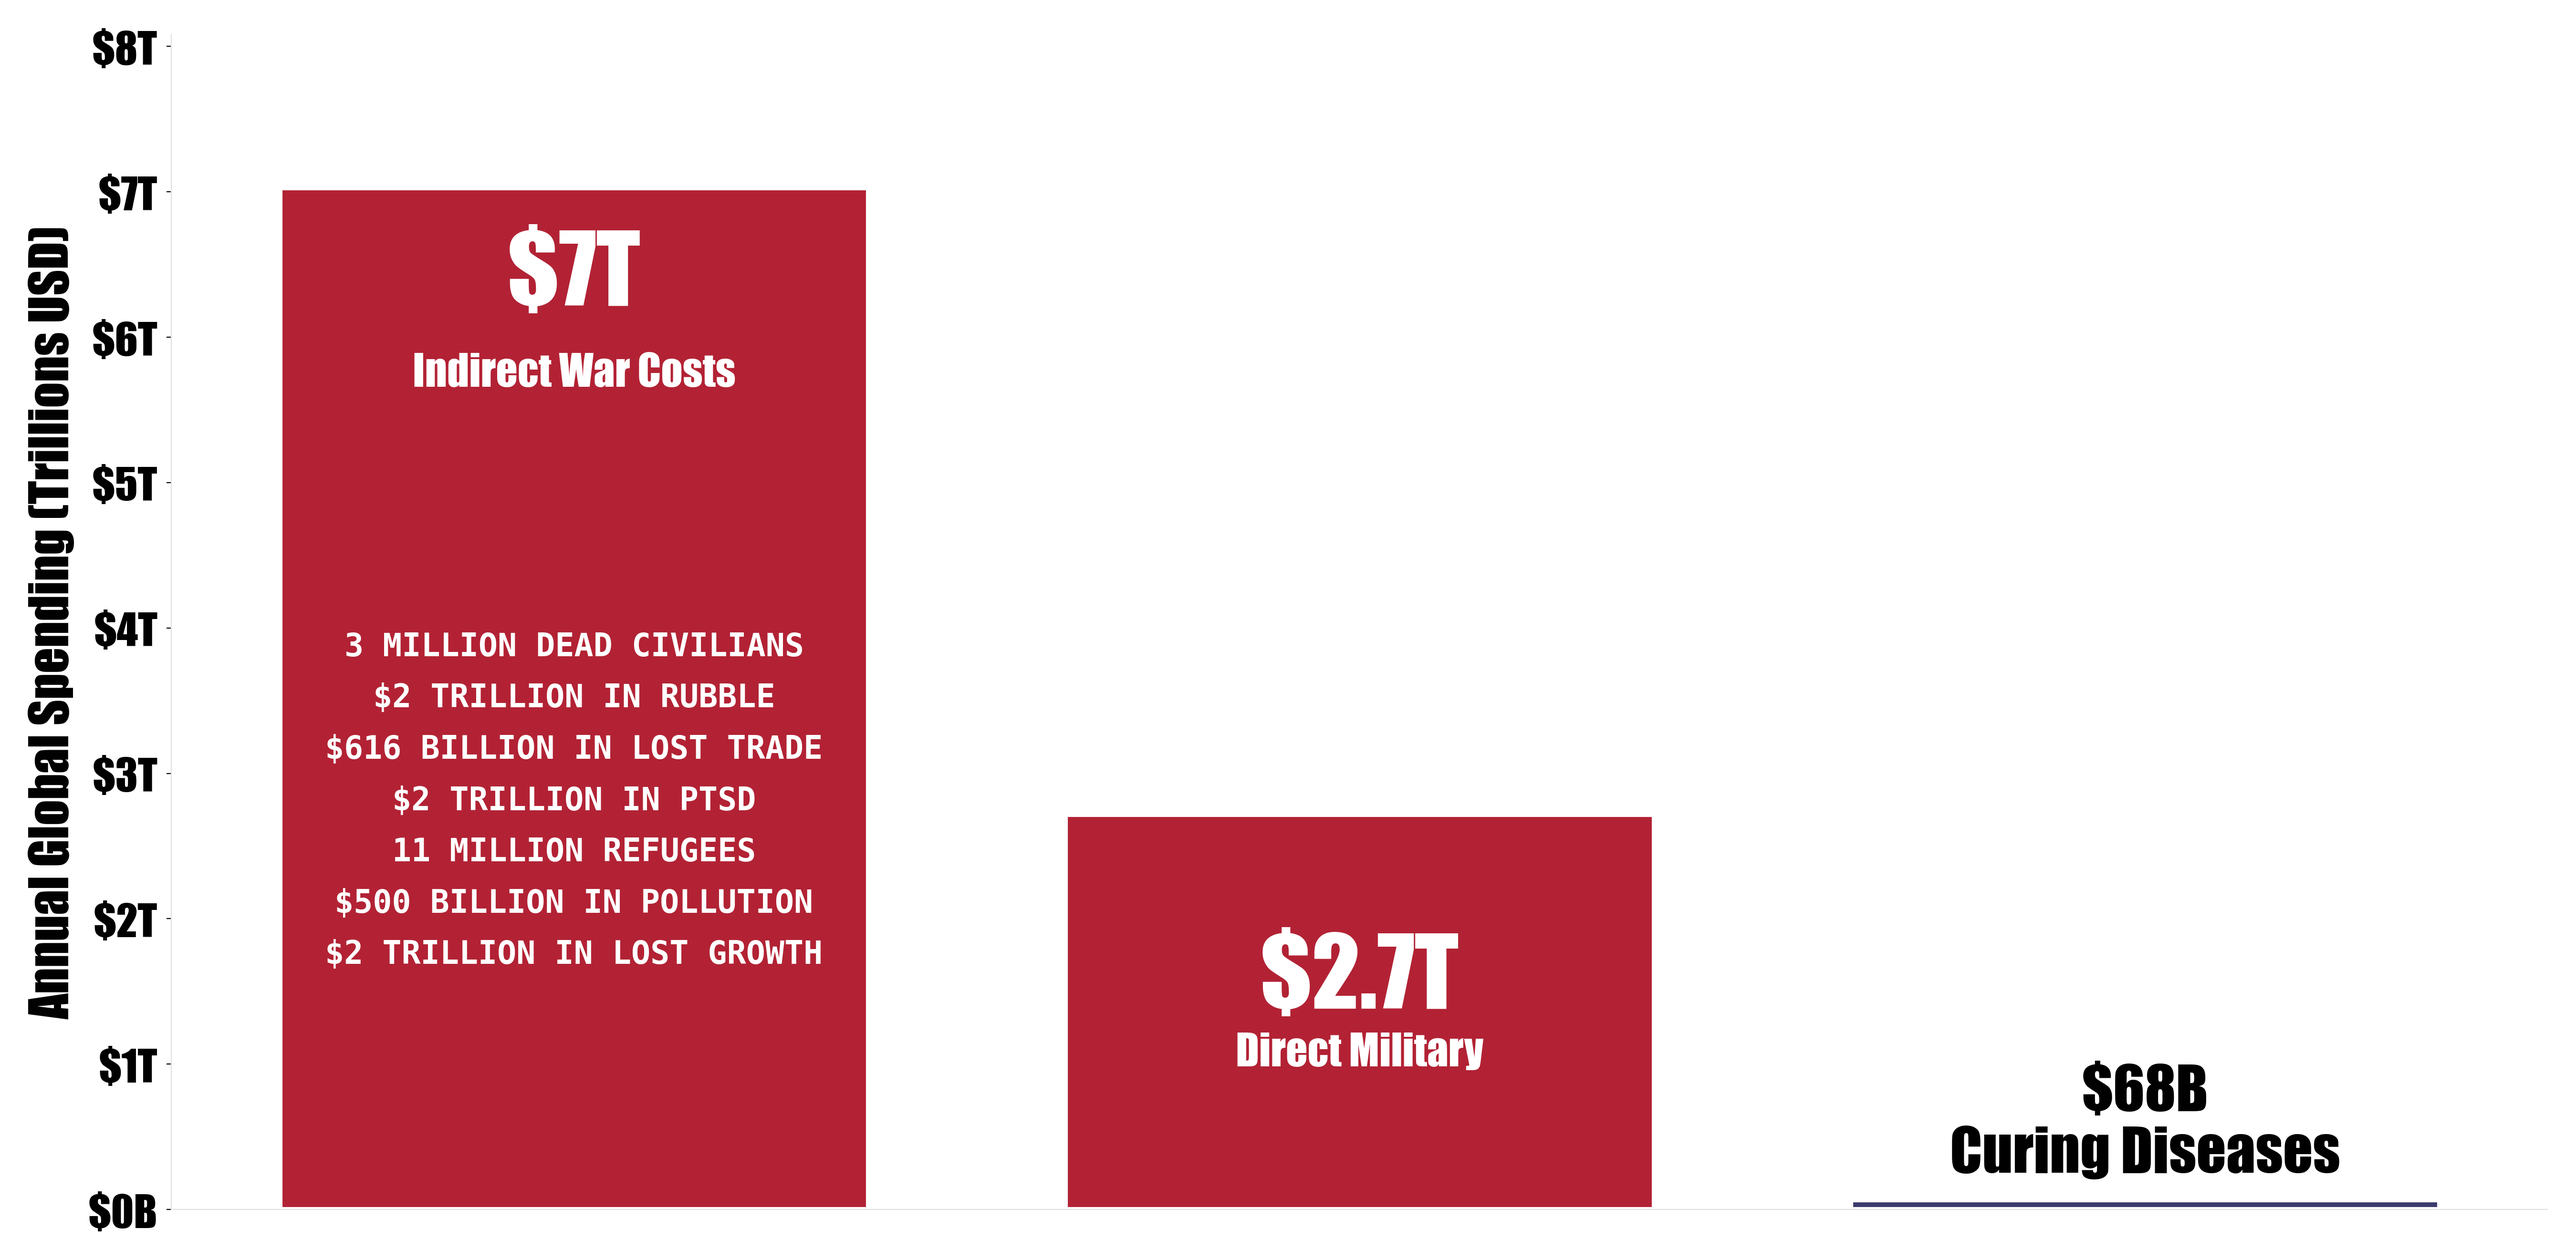
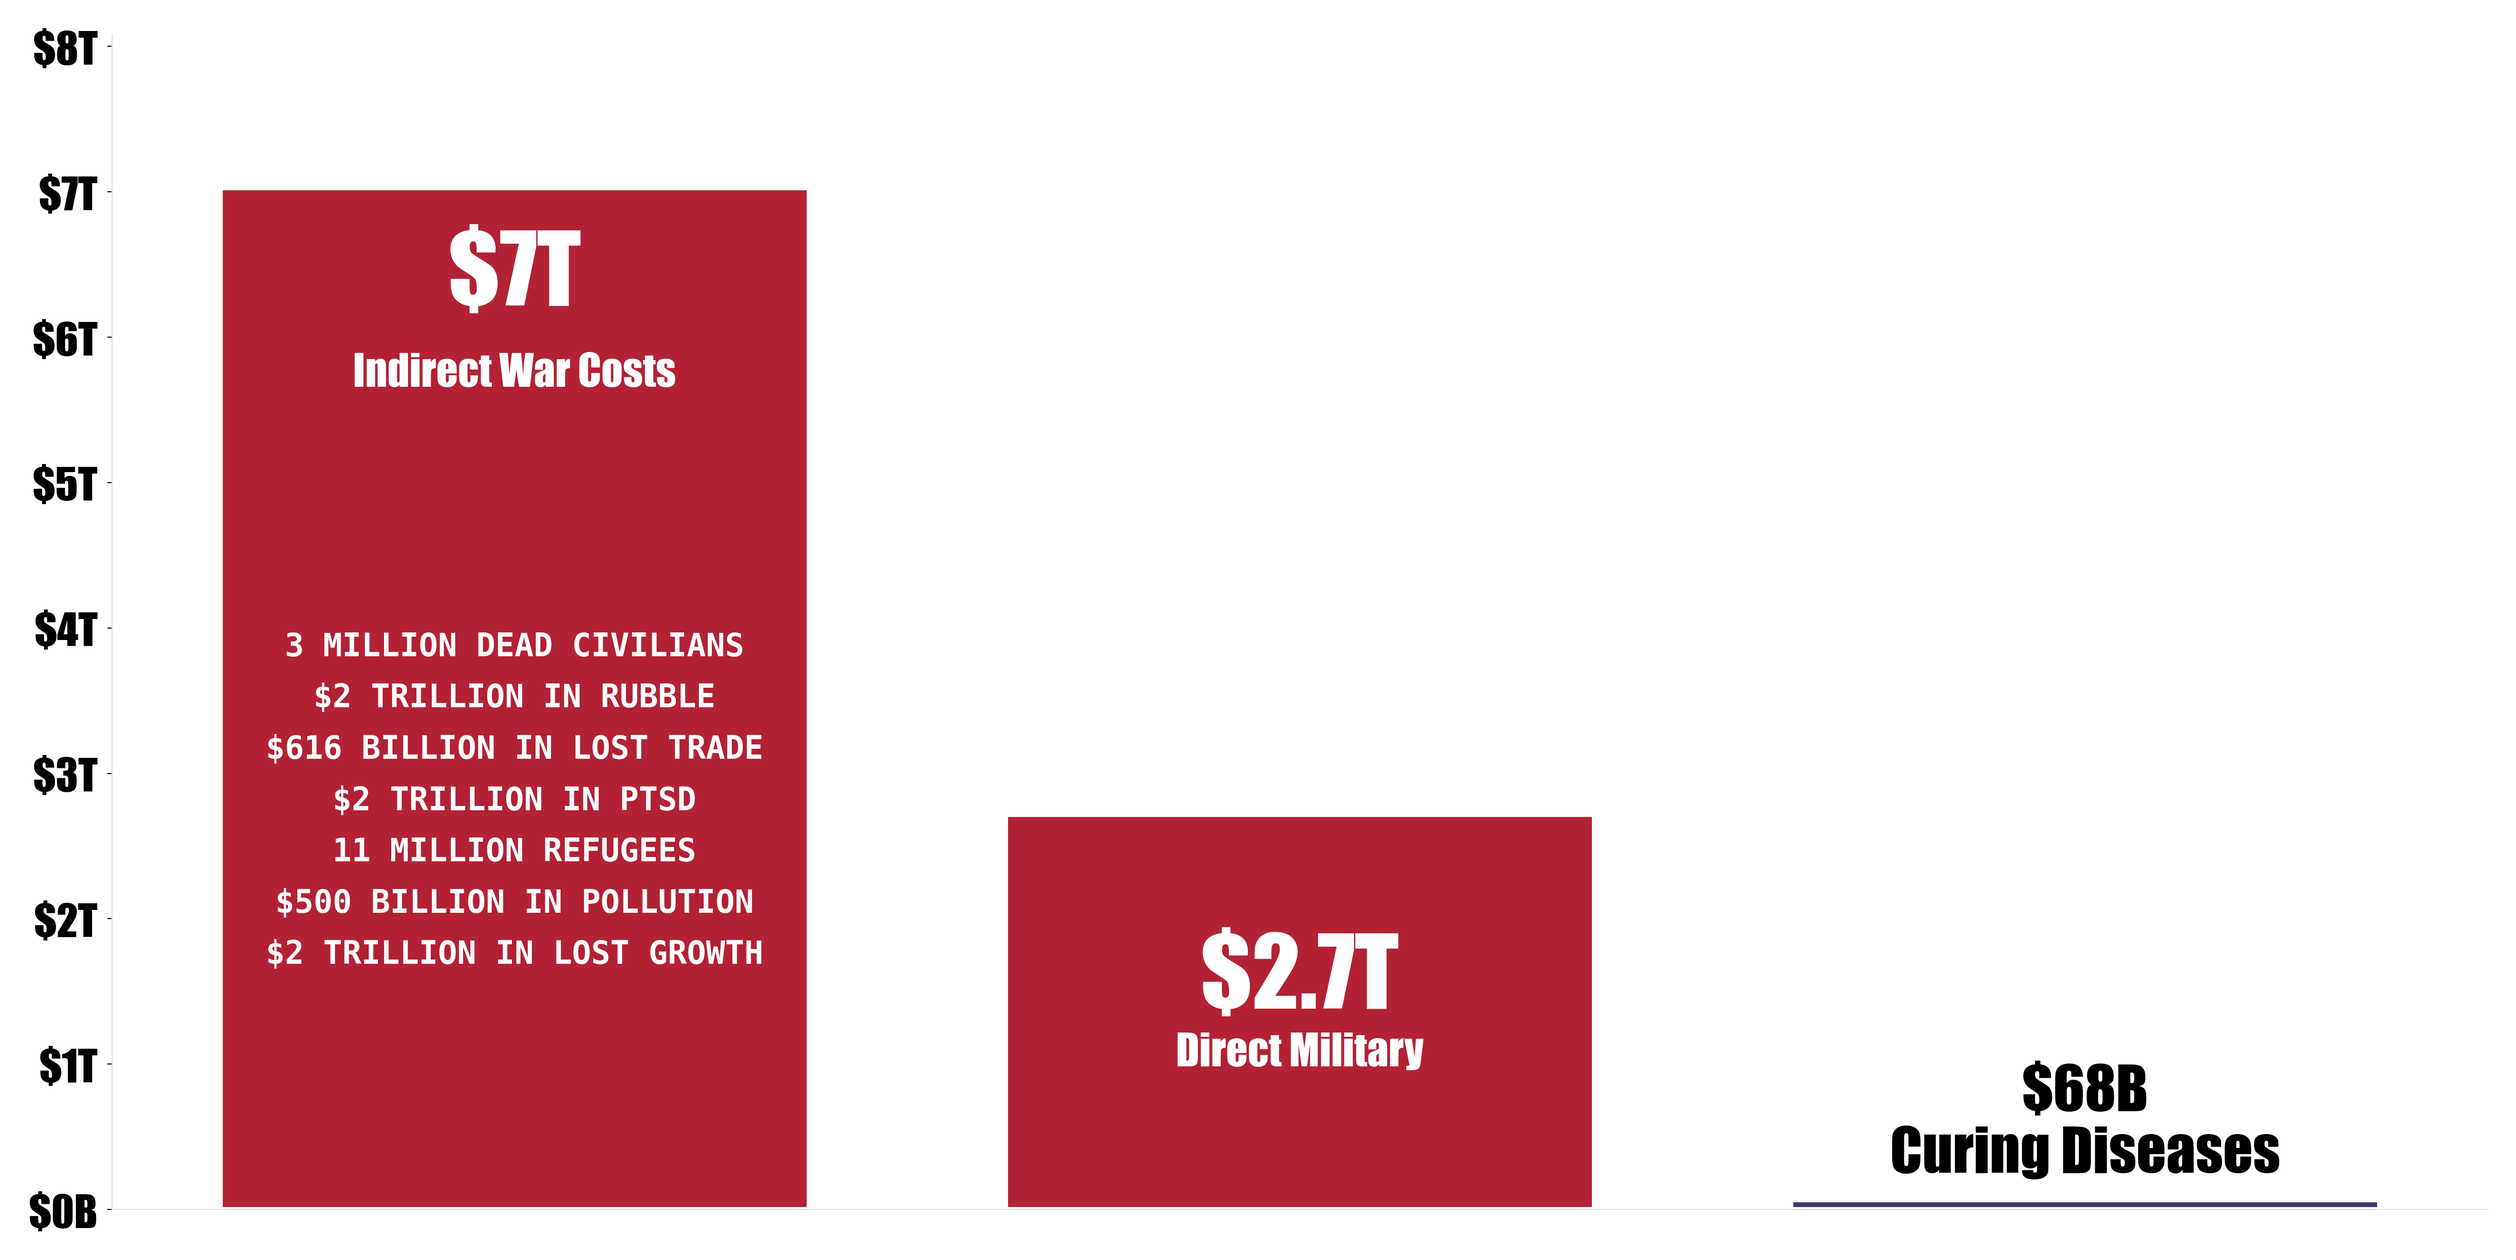
Update DESIGN_GUIDE.md with refined minimalist chart design rules
- Clarified guidelines for Y-axis usage, specifying when to include or remove axis labels and titles based on data labeling.
- Enhanced instructions for data presentation, emphasizing direct labeling on charts and the removal of redundant elements for cleaner visuals.
- Updated formatting recommendations to align with minimalist design principles, ensuring effective communication of data.

diff --git a/DESIGN_GUIDE.md b/DESIGN_GUIDE.md
@@ -140,7 +140,7 @@ These margins are automatically set by `setup_chart_style()` but can be adjusted
 
 **What to Include:**
 - Data bars (solid black or red/blue when meaning is clear)
-- Y-axis with scale (shows magnitude, keep axis but remove axis label/title)
+- Y-axis with scale (only when columns aren't all labeled with amounts)
 - Key data values (large, bold, impossible to miss)
 - Watermark (required)
 
@@ -148,14 +148,14 @@ These margins are automatically set by `setup_chart_style()` but can be adjusted
 - Put labels directly ON the data (on bars, lines, points)
 - Format: `"$7T\nIndirect War Costs"` (value + description with line break)
 - Remove redundant x-axis labels when data is self-labeled
-- Remove y-axis label/title (axis scale is enough, title is redundant)
+- Remove y-axis entirely on column charts when all columns show their amounts
 - This eliminates matching numbers to separate axis labels
 
 **What to Remove:**
 - Gridlines (unless absolutely necessary, then use sparingly)
 - Chart titles (let the context provide the title)
 - X-axis labels (when labels are on the bars themselves)
-- Y-axis label/title (keep the axis scale, remove the title text)
+- Y-axis entirely (when all columns are labeled with amounts)
 - Legends (use direct labels instead)
 - Backgrounds/fills (pure white only)
 - Borders, shadows, gradients, 3D effects
